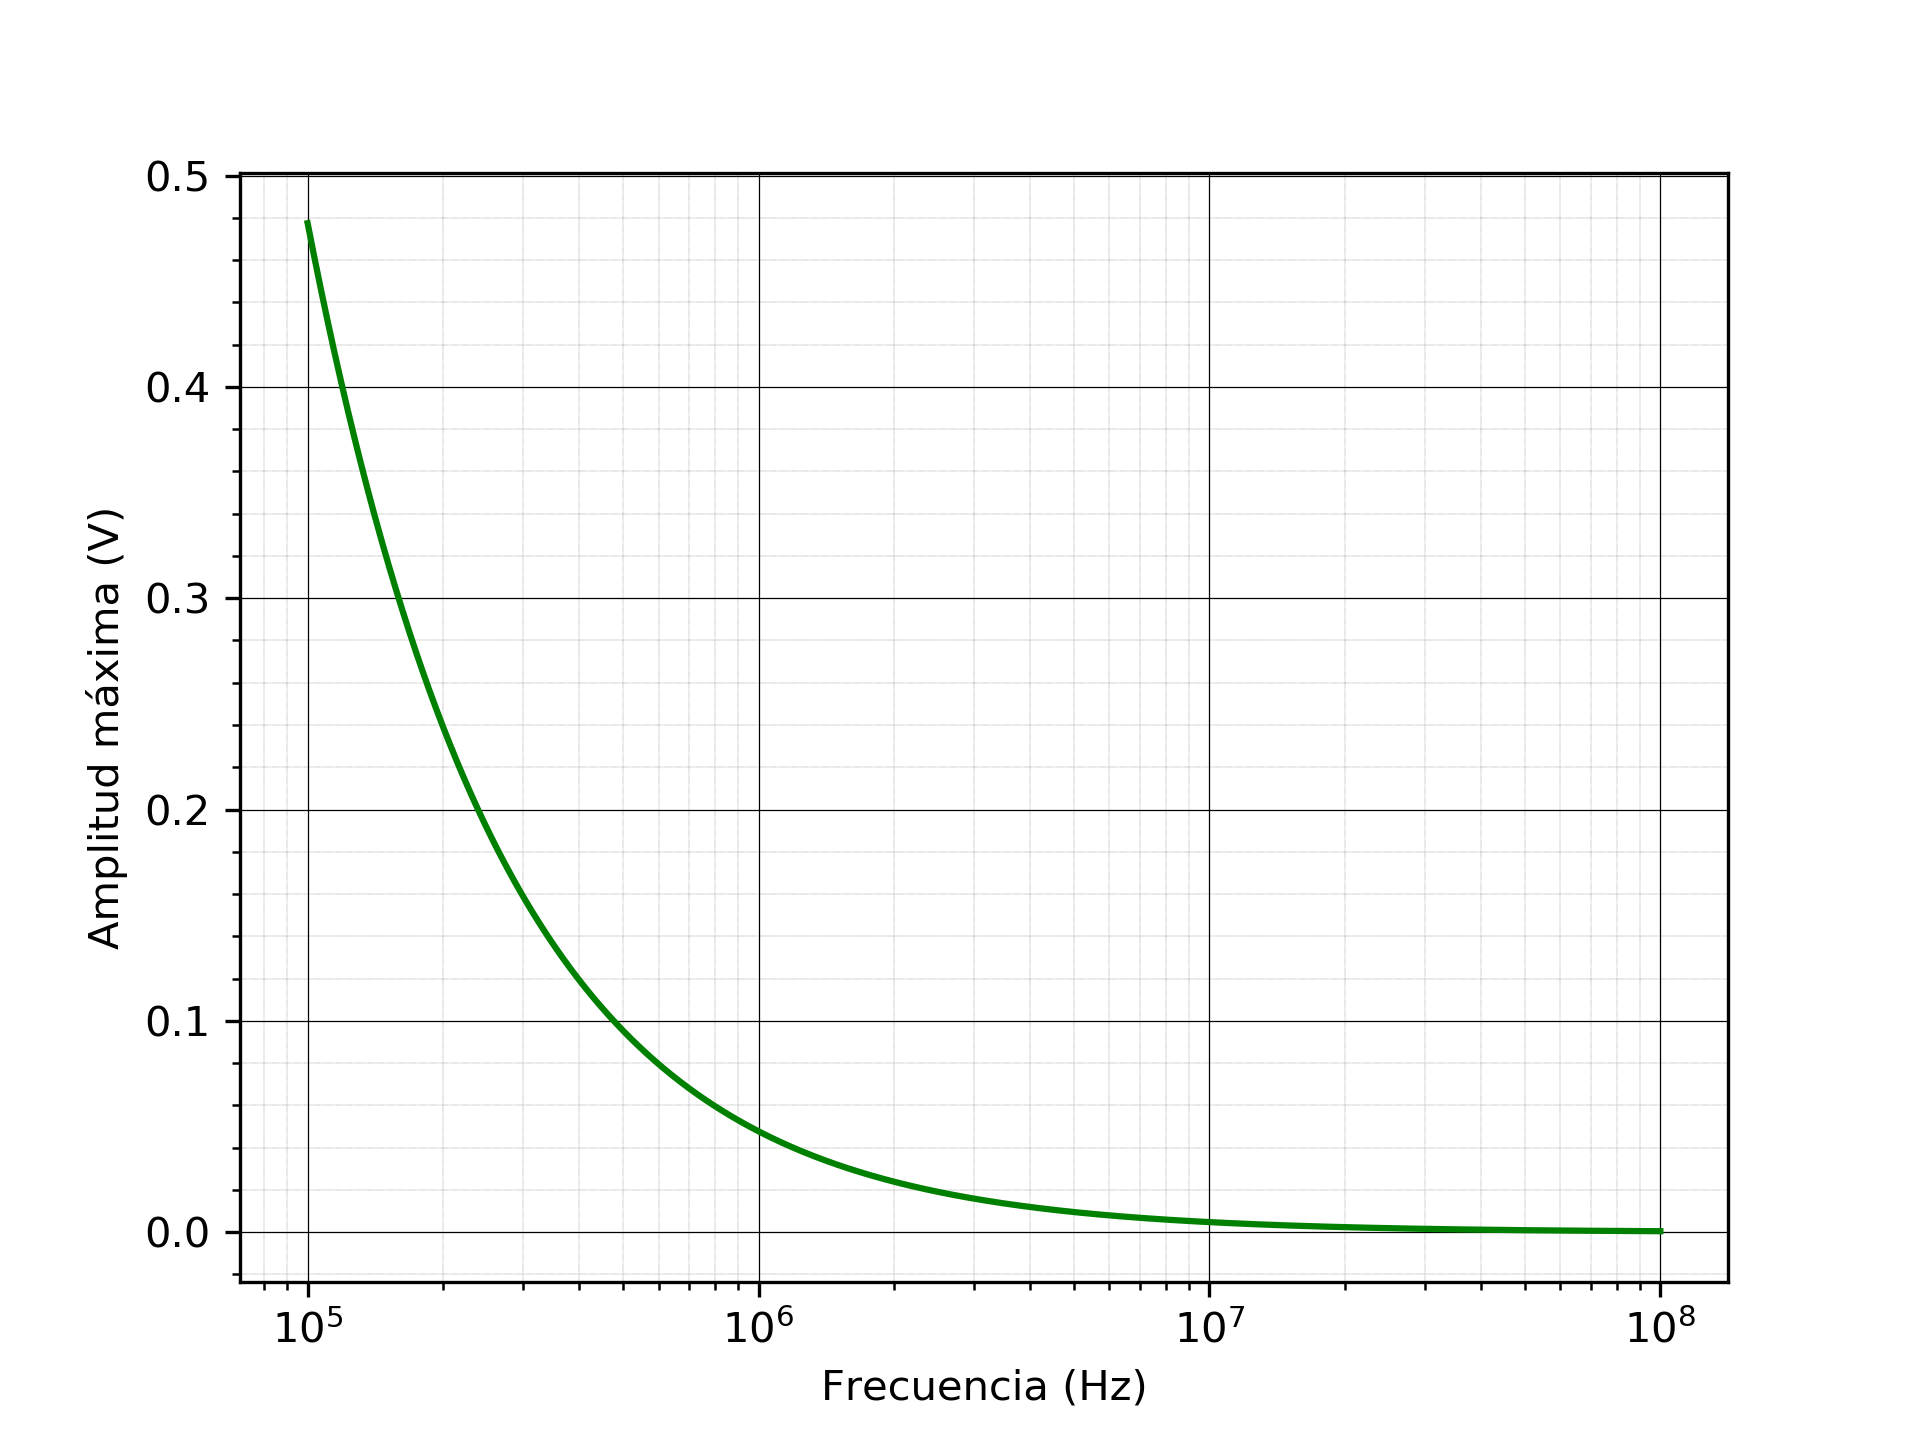
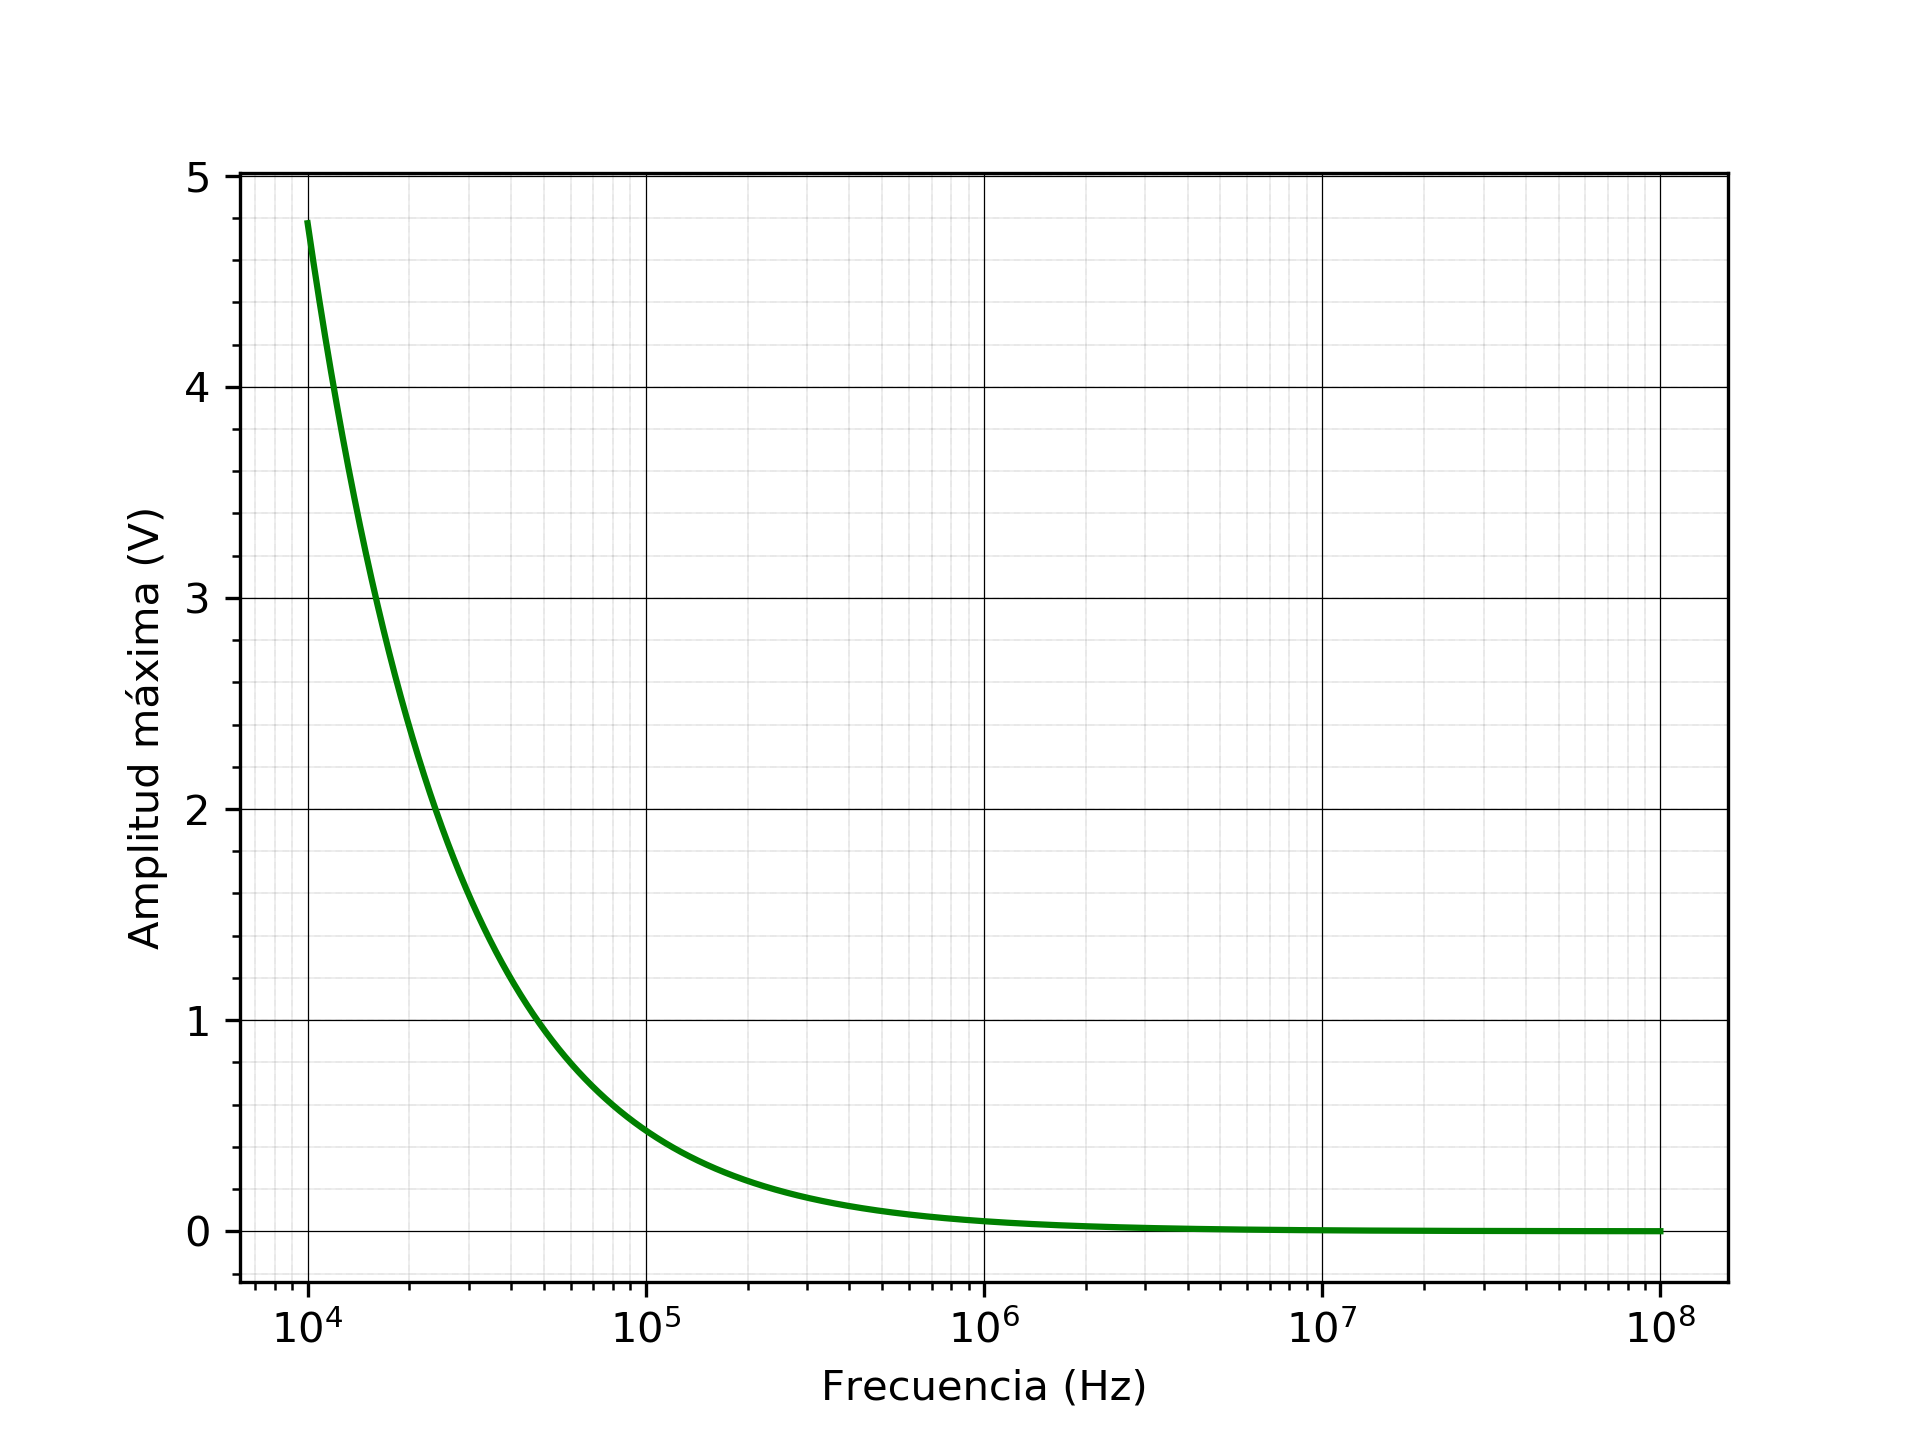
add

diff --git a/TP2/graficos/ejercicio4/slew_rate.py b/TP2/graficos/ejercicio4/slew_rate.py
@@ -31,4 +31,4 @@ def plot_SR( frec_range , output_filename):
 
     plt.show()
 
-plot_SR( frec_range= np.logspace(5,8,10000) ,output_filename="slew_rate2.png")
+plot_SR( frec_range= np.logspace(4,8,10000) ,output_filename="slew_rate2.png")
